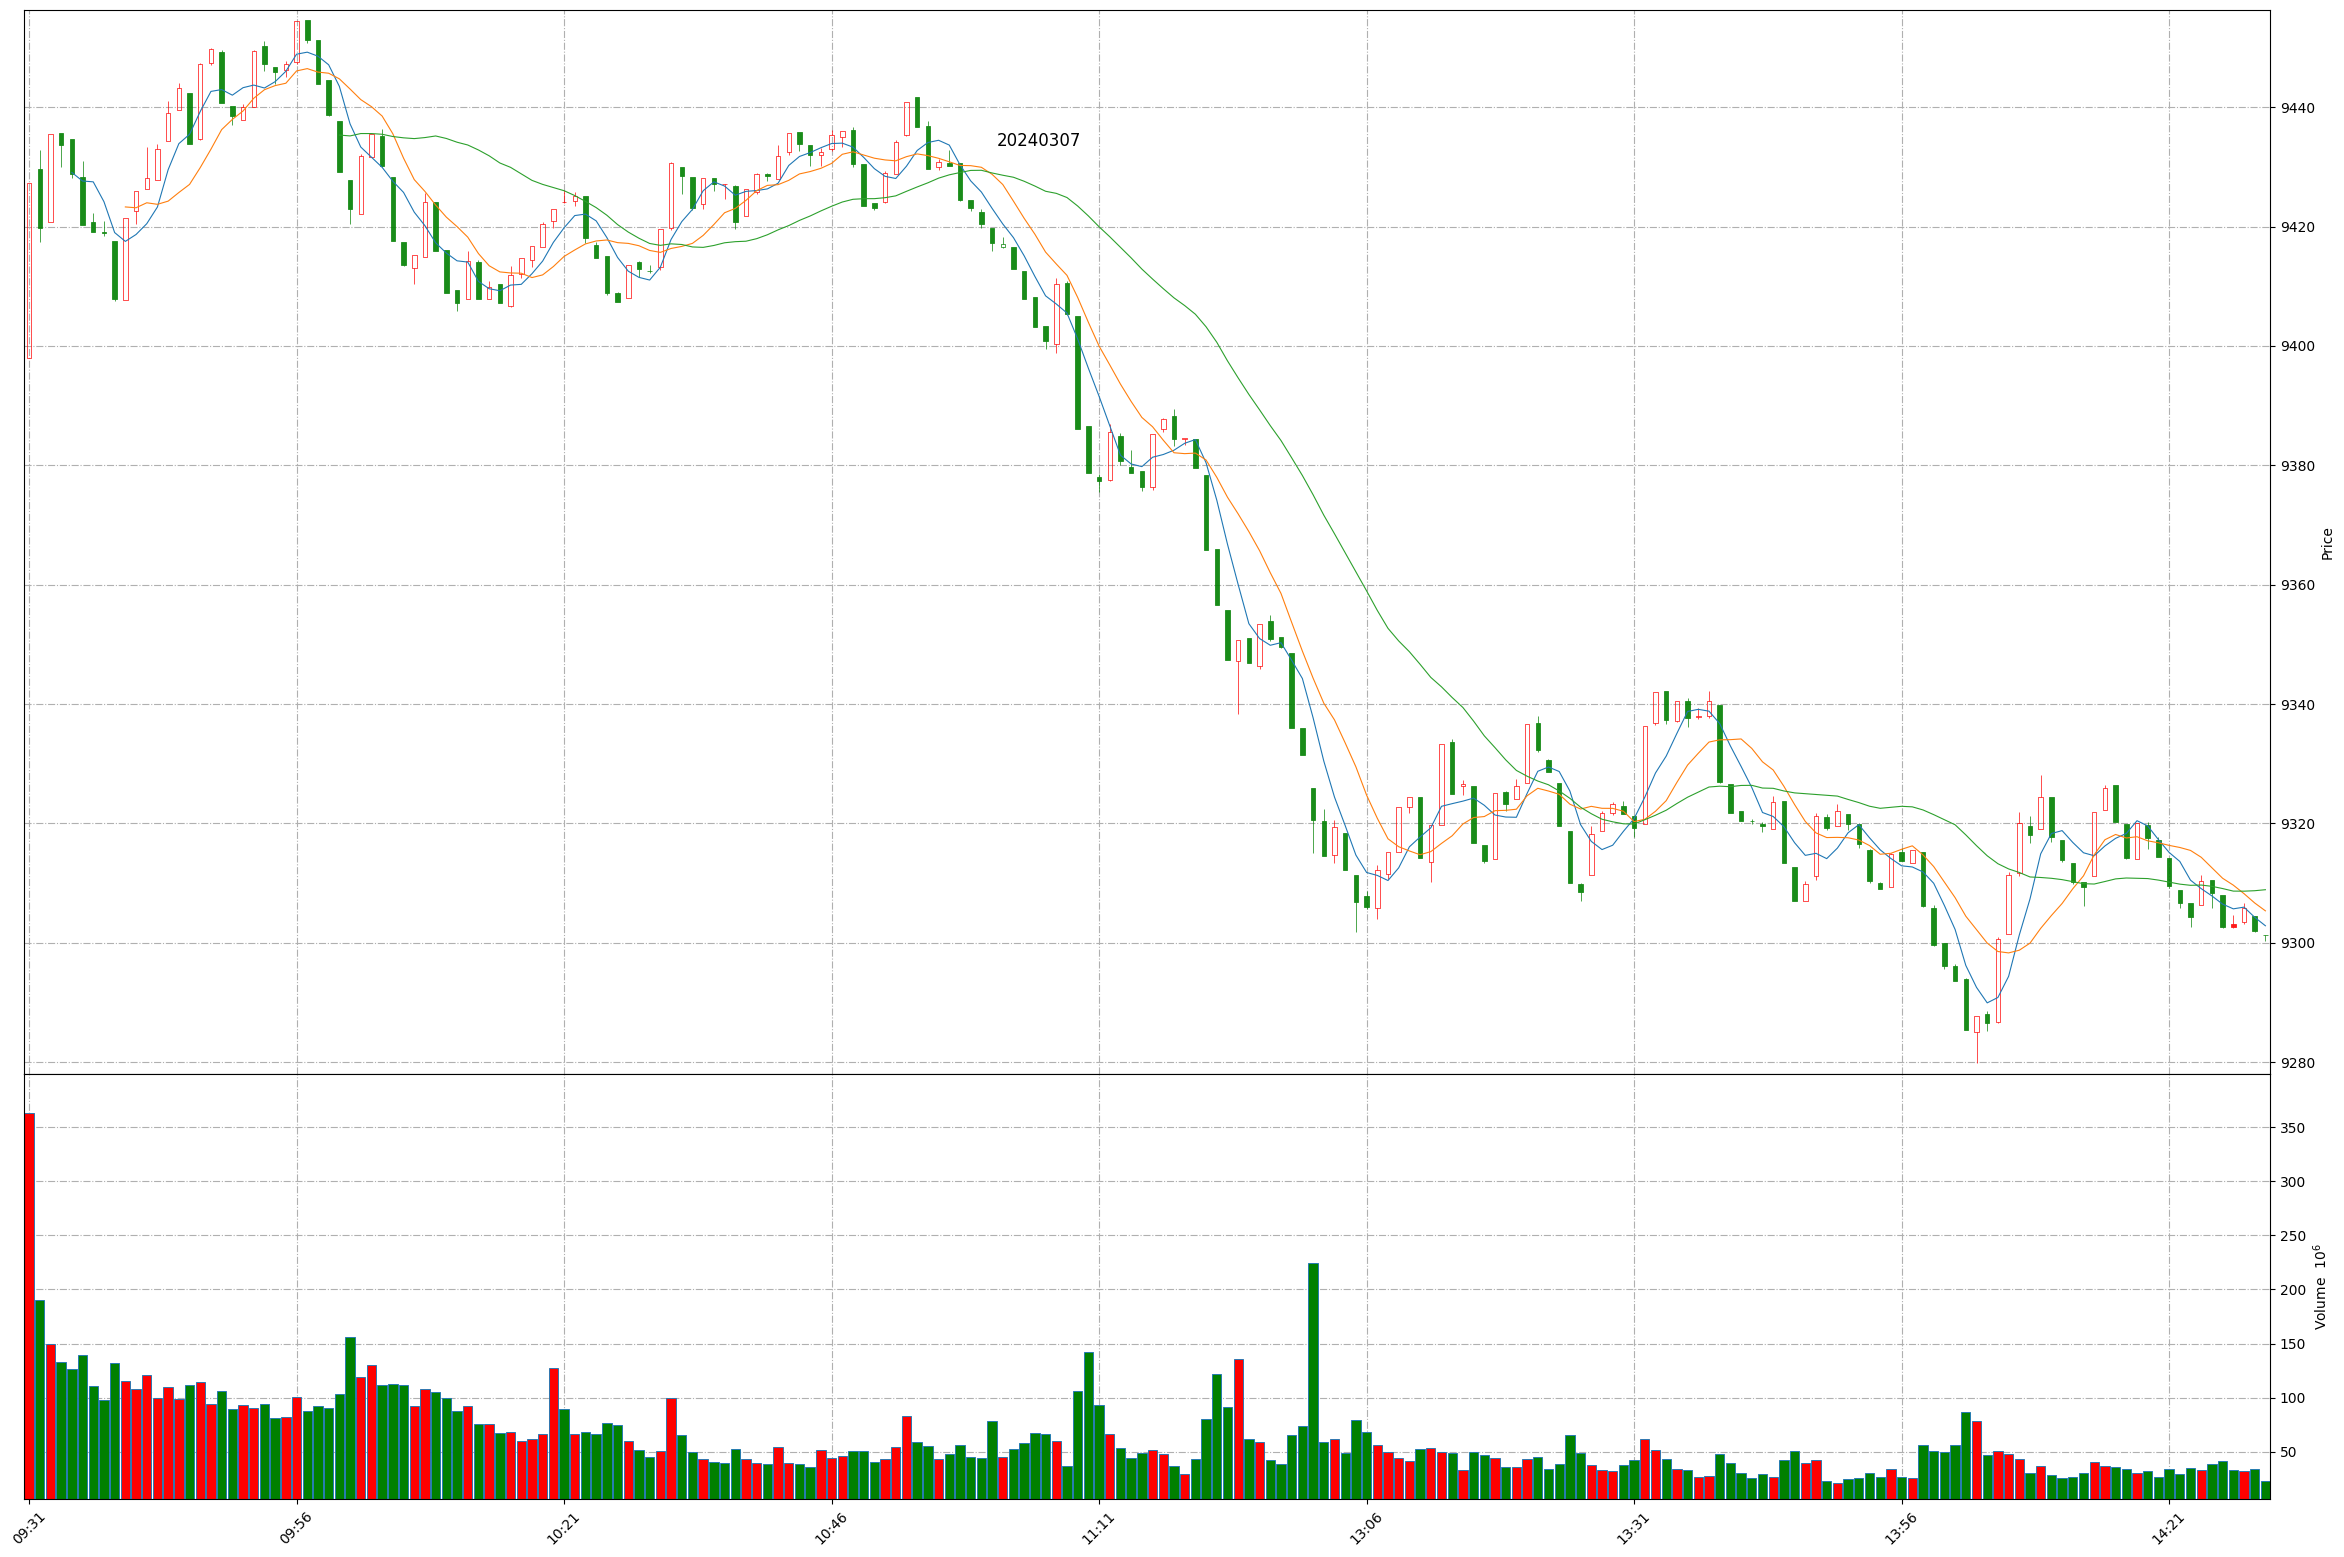
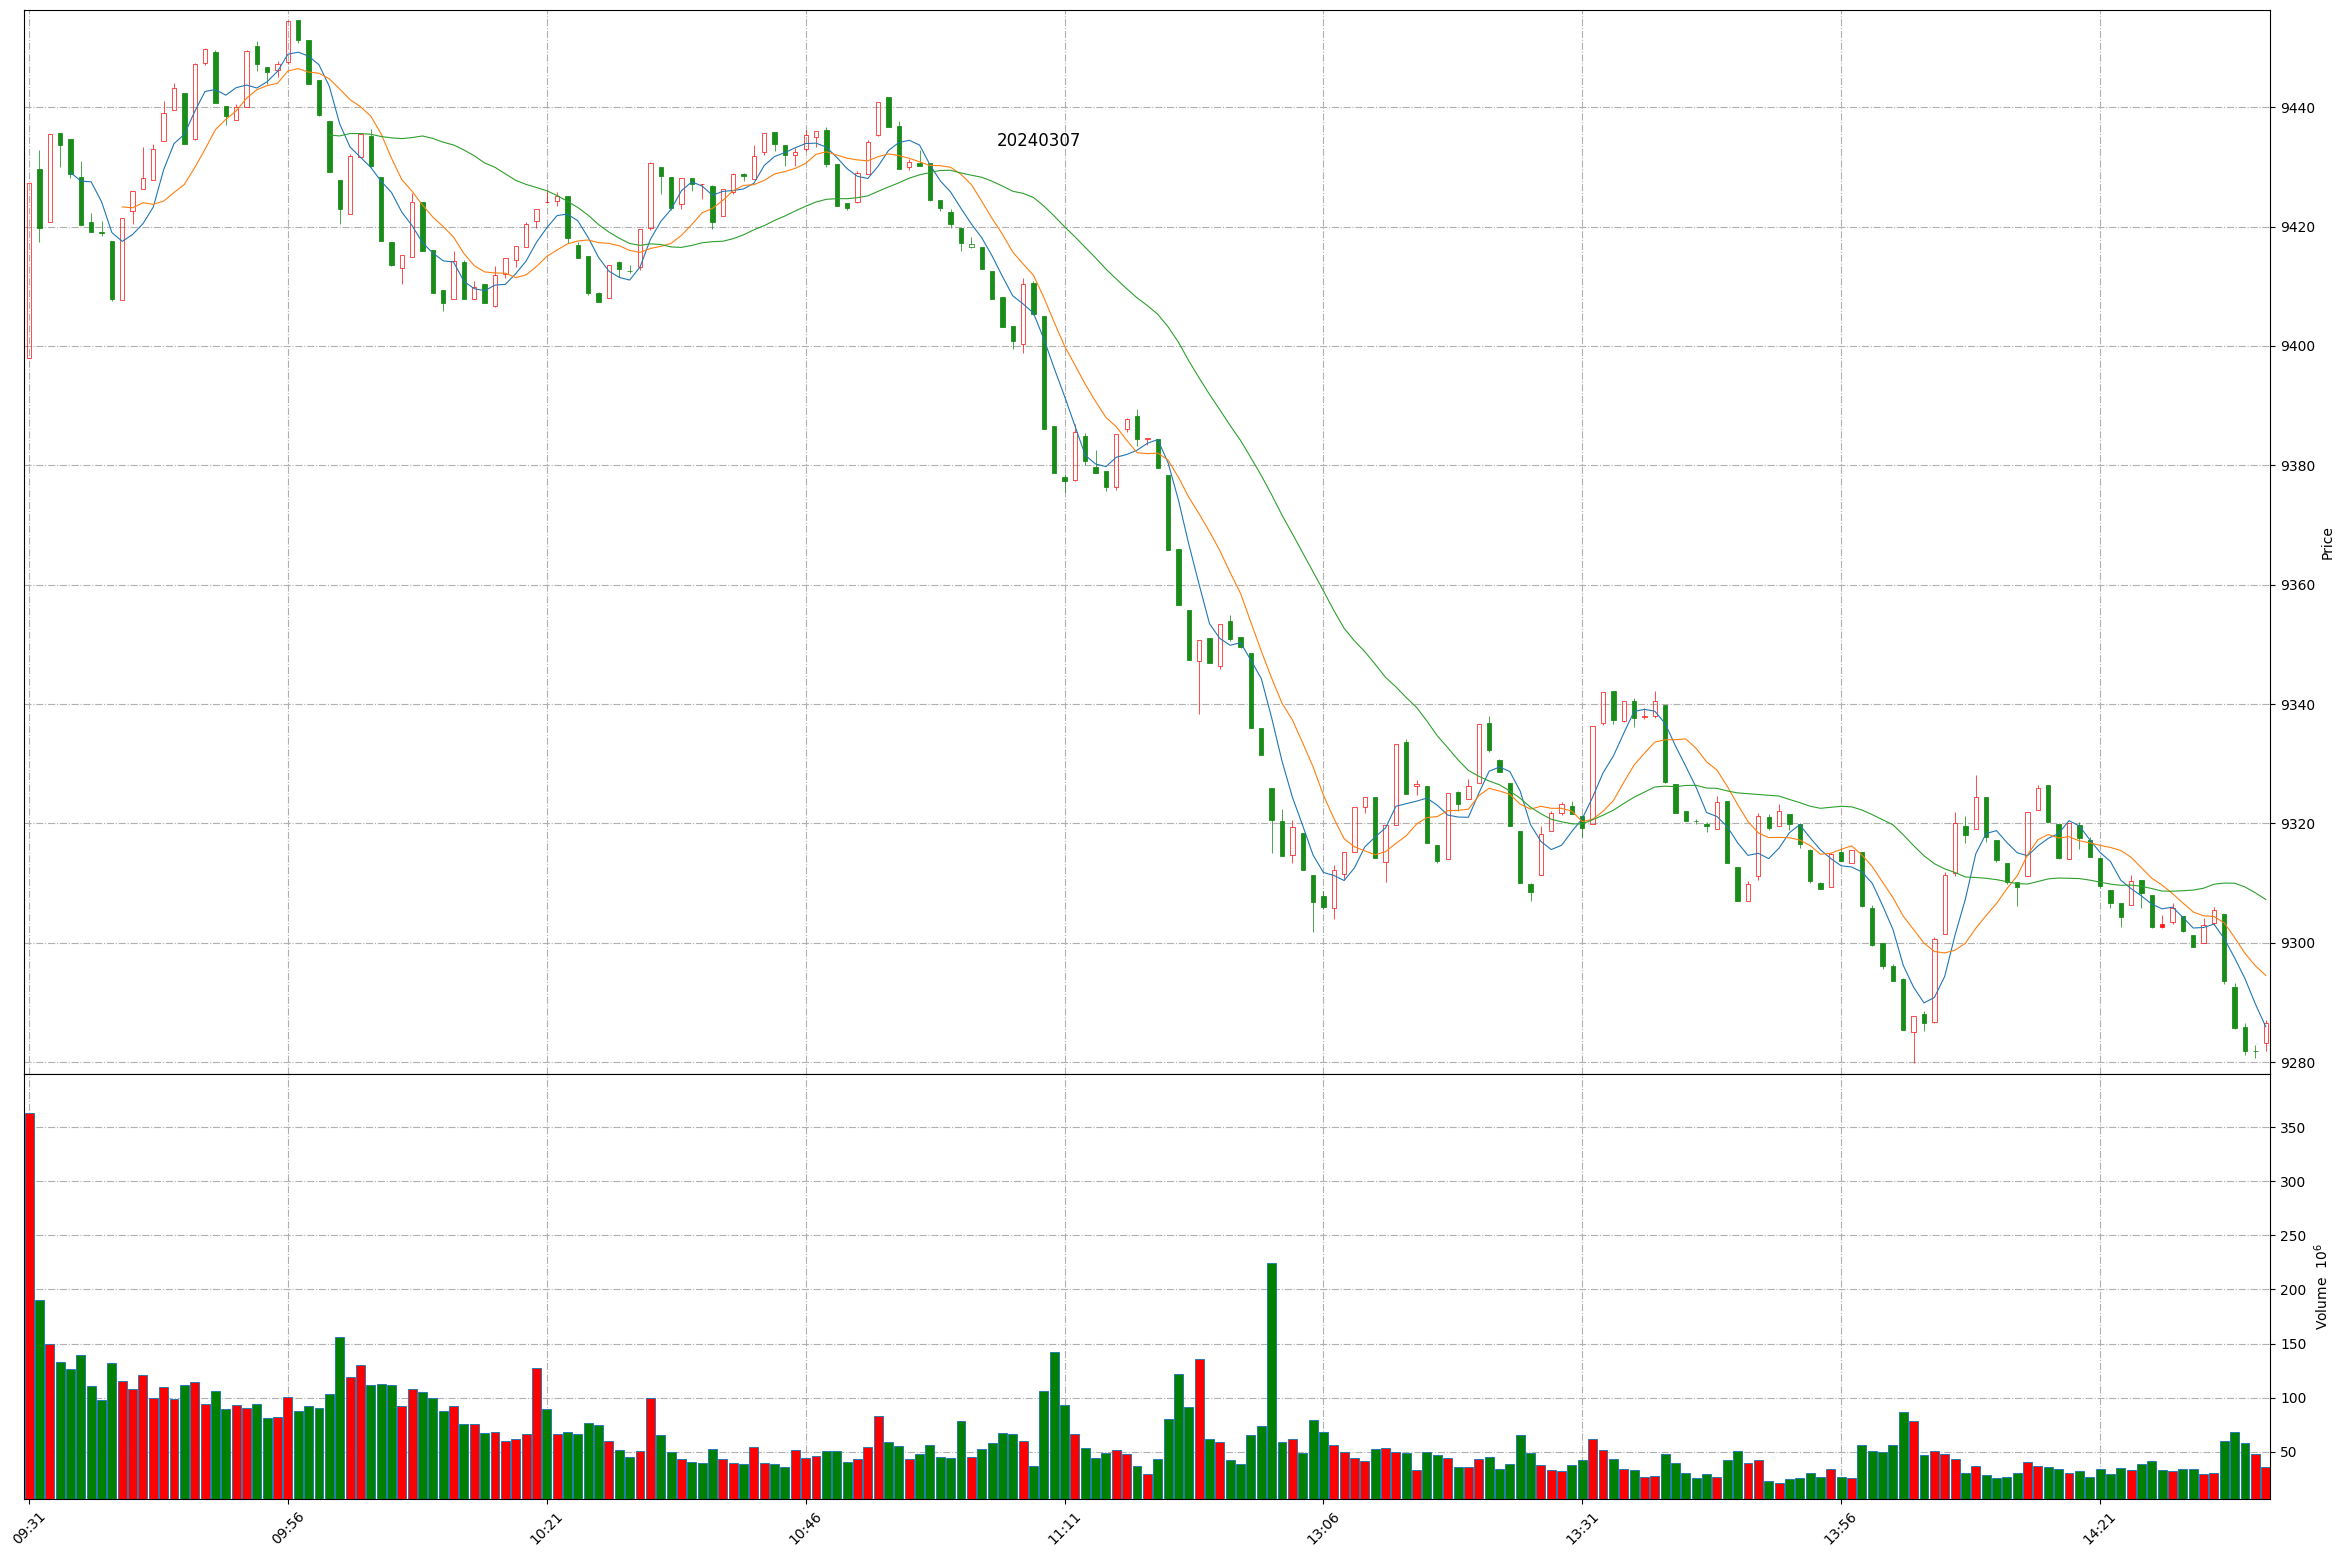
Github action update at 2024-03-07 14:37:08.

Changed region(s): [[0.0623, 0.0, 0.9654, 0.6782], [0.0311, 0.8015, 0.9654, 0.9865], [0.0311, 0.1233, 0.0623, 0.185]]

diff --git a/README.md b/README.md
@@ -1,11 +1,11 @@
 
 # Daily-A-share-market-quotes 每日 A 股指数（5min 更新）- 20240307
 
-### 上证指数 20240307 14:29
+### 上证指数 20240307 14:37
 ![](./fig/2024/3/20240307-sh000001.png)
 
-### 深证成指 20240307 14:29
+### 深证成指 20240307 14:37
 ![](./fig/2024/3/20240307-sz399001.png)
 
-### 北证50 20240307 14:29
+### 北证50 20240307 14:37
 ![](./fig/2024/3/20240307-bj899050.png)
